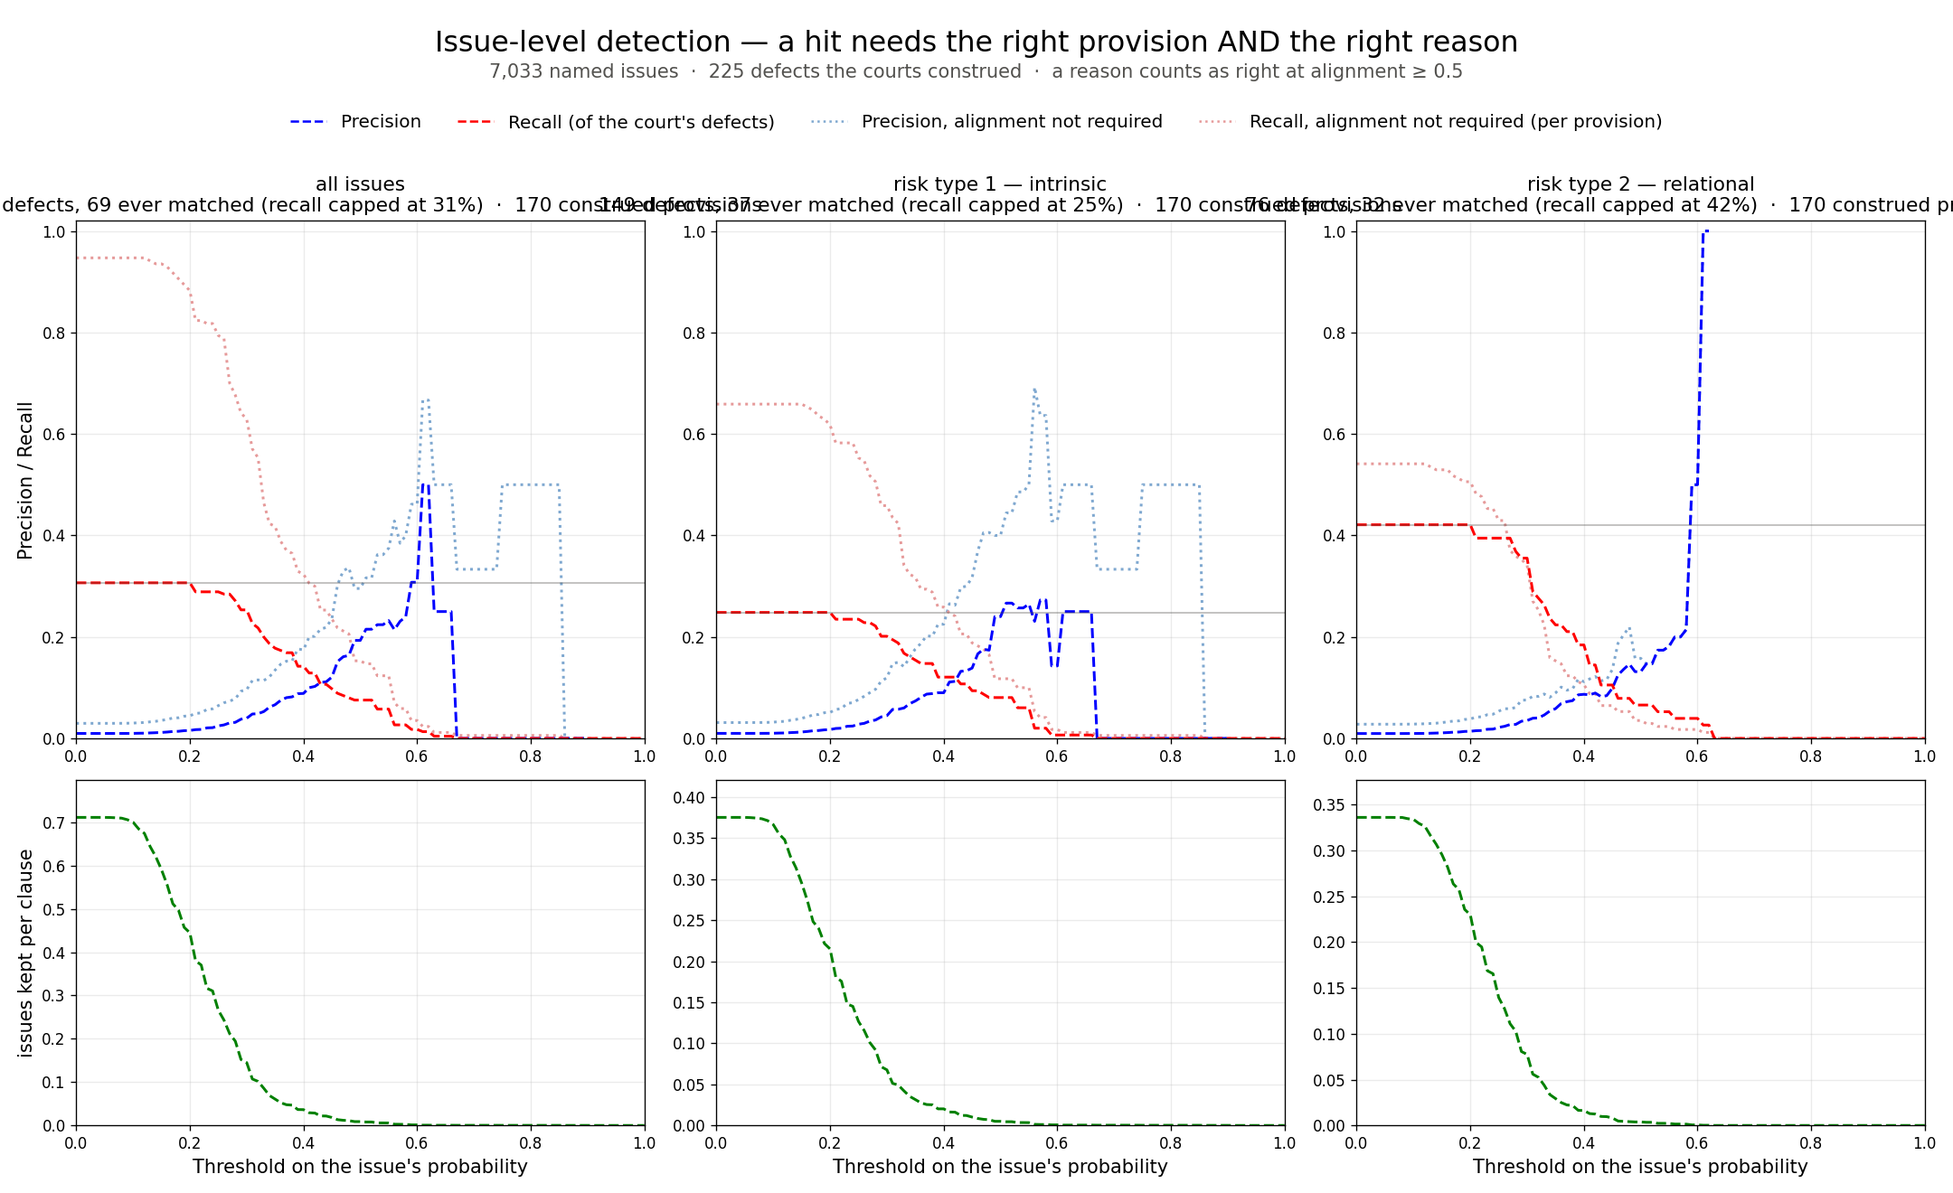
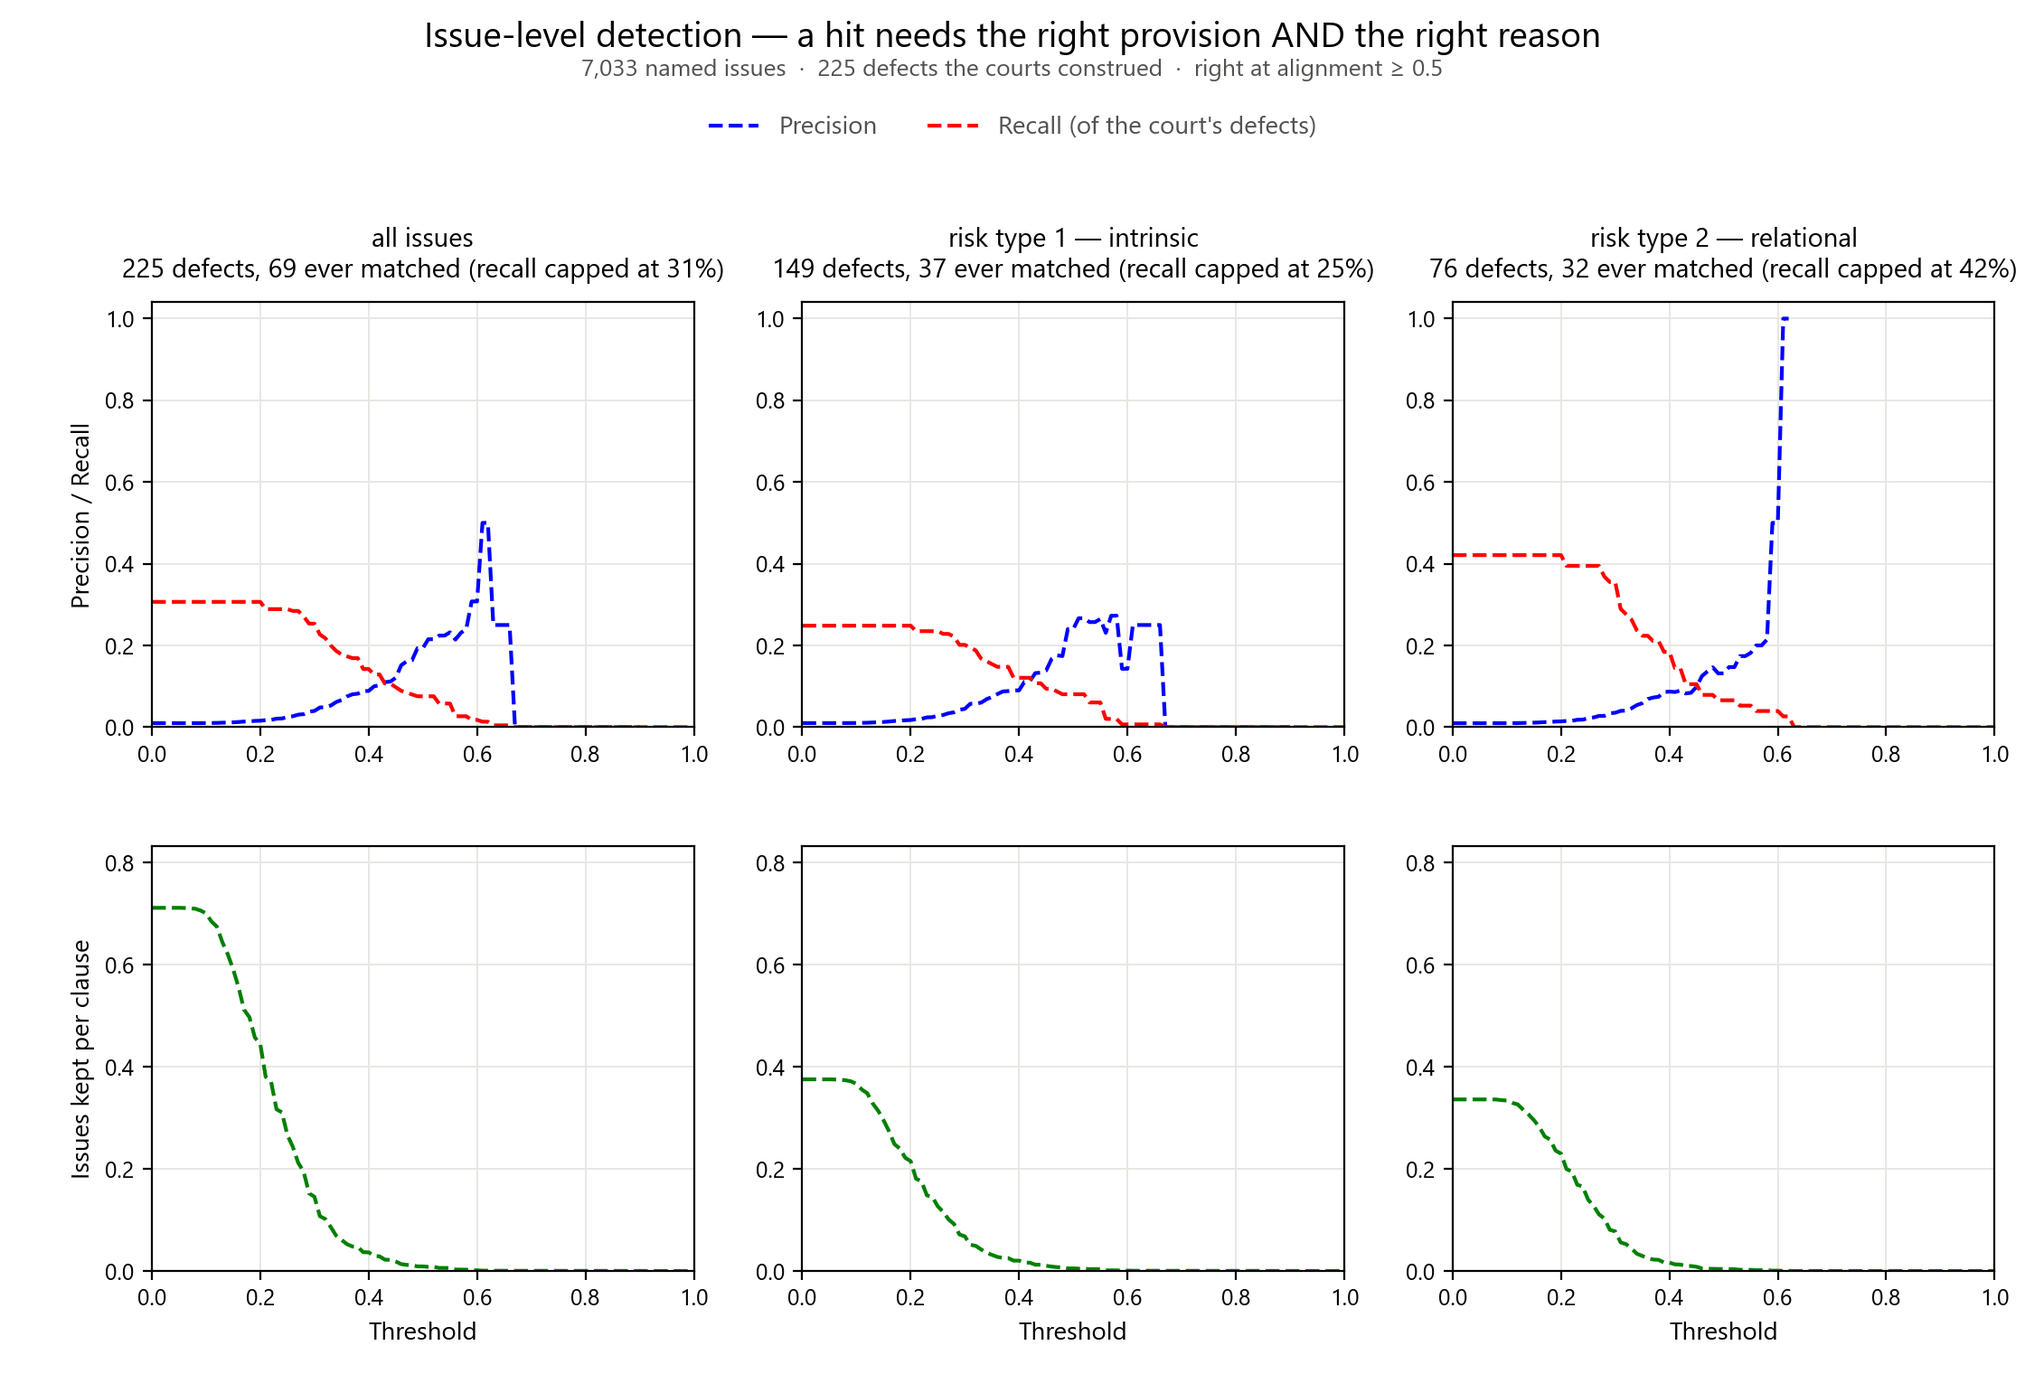
update figures

diff --git a/src/experiments/plot_issue_alignment_thresholds.py b/src/experiments/plot_issue_alignment_thresholds.py
@@ -8,8 +8,8 @@ it correct when both hold:
     actually construed (alignment >= 0.5)
 
 so a provision flagged for the wrong reason is a false positive here even
-though the other figure counts it as a hit. The gap between the two curves is
-the price of demanding the right reason.
+though the risk-detection figure counts it as a hit. The distance between the
+two figures is the price of demanding the right reason.
 
 **Risk type is NOT part of the test.** The alignment judge is shown neither
 side's type, and a candidate is not filtered by it: the dataset's labels come
@@ -17,11 +17,11 @@ from the case's Westlaw key rather than from the passage, so gating on them
 discards matches where both sides name the same defect and classify it
 differently. Type agreement is measured separately, over the matched pairs.
 
-**The two recalls have different denominators, and the figure says so.** Strict
-recall is over the court's own defects: step 2 records each one separately, and
-the judge reports WHICH it matched, so a found defect is counted once. Lenient
-recall drops the alignment test, and without a match there is no way to say
-which defect was reached, so it can only count PROVISIONS the court construed.
+**Recall is over the court's own defects.** Step 2 records each separately and
+the judge reports WHICH one an issue matched, so a defect found twice counts
+once. Dropping the alignment test would leave no way to say which defect an
+issue reached, so that variant is not drawn here — scoring a provision without
+regard to the reason is what the risk-detection figure already does.
 
 **Null-text entries are excluded from the universe.** An entry with `issue:
 null` states a probability without naming a defect, so it can never be right for
@@ -29,7 +29,8 @@ the right reason and scoring it here would only dilute the denominator.
 
 Gold issues the check could never reach — the model named no issue of that type
 on that provision at any probability — cap recall however the threshold is set.
-That ceiling is drawn on each panel.
+Each panel's title says where that ceiling is; the recall curve reaches it at
+threshold 0, so it is not drawn as a line of its own.
 
 Usage:
     python src/experiments/plot_issue_alignment_thresholds.py
@@ -59,9 +60,19 @@ ALIGNED = 0.5            # the alignment score above which a reason is "right"
 C_PRECISION = "blue"
 C_RECALL = "red"
 C_FLAGGED = "green"
-C_LENIENT_P = "#7fa8d0"  # precision without the alignment requirement
-C_LENIENT_R = "#e69a9a"  # recall without it, at (provision, type) granularity
 INK2 = "#52514e"
+
+# The two threshold figures are read as a pair, so their panels have to be the
+# same size on the page. `tight_layout` sizes them from whatever is left after
+# the header, and the headers differ — a two-row legend in one, a one-row legend
+# in the other — which silently made one figure's panels 6% shorter than the
+# other's. The box is therefore fixed here and the header drawn above it, with
+# the same numbers in both scripts. Changing one without the other reintroduces
+# the mismatch. `bbox_inches="tight"` is likewise not used: it crops to the ink,
+# so the saved canvas would again depend on the header.
+PANEL_BOX = dict(left=0.075, right=0.985, bottom=0.075, top=0.78,
+                 wspace=0.20, hspace=0.28)
+Y_TITLE, Y_SUBTITLE, Y_LEGEND = 0.985, 0.945, 0.932
 
 PANELS = [("all issues", (1, 2)),
           ("risk type 1 — intrinsic", (1,)),
@@ -73,11 +84,10 @@ def rows(path):
 
 
 def load():
-    """(named issues, gold issue keys, gold (provision, type) targets).
+    """(named issues, gold issue keys, construed provisions, clauses judged).
 
-    One item per named issue: its probability, its risk type, whether it lands
-    on a construed provision at all, and which of the court's recorded defects
-    the judge matched it to.
+    One item per named issue: its probability, its risk type, and which of the
+    court's recorded defects the judge matched it to, if any.
     """
     align = {r["job_id"]: r for r in rows(ALIGN)}
 
@@ -111,39 +121,31 @@ def load():
             hit = (a and a.get("matched_key")
                    and float(a["alignment"]) >= ALIGNED)
             items.append({
-                "prob": it["prob"], "type": t, "on_target": on_target,
-                "target": (r["contract_id"], r["clause_id"]),
+                "prob": it["prob"], "type": t,
                 "matched": a["matched_key"] if hit else None,
             })
     return items, gold_issues, targets, n_clauses
 
 
-def sweep(items, n_gold, n_targets, n_clauses, thresholds):
-    """(precision, recall, lenient precision, lenient recall, issues/clause).
+def sweep(items, n_gold, n_clauses, thresholds):
+    """(precision, recall, issues per clause).
 
     Recall counts DISTINCT gold issues matched, so two issues that name the same
-    defect are one hit. The lenient pair drops the alignment test: its precision
-    asks only whether an issue landed on a construed provision, and its recall
-    counts distinct provisions reached, the finest granularity available
-    without a match.
+    defect are one hit.
 
     The bottom row is issues kept per clause, not a percentage of the issues
     named: what a reviewer actually carries is the count per provision they
     open, and dividing by the issues the model happened to write hides it.
     """
-    prec, rec, lprec, lrec, flag = [], [], [], [], []
+    prec, rec, flag = [], [], []
     for t in thresholds:
         f = [i for i in items if i["prob"] >= t]
         found = {i["matched"] for i in f if i["matched"]}
-        reached = {i["target"] for i in f if i["on_target"]}
         tp = sum(1 for i in f if i["matched"])
-        lp = sum(1 for i in f if i["on_target"])
         prec.append(tp / len(f) if f else float("nan"))
-        lprec.append(lp / len(f) if f else float("nan"))
         rec.append(len(found) / n_gold if n_gold else float("nan"))
-        lrec.append(len(reached) / n_targets if n_targets else float("nan"))
         flag.append(len(f) / n_clauses if n_clauses else float("nan"))
-    return prec, rec, lprec, lrec, flag
+    return prec, rec, flag
 
 
 def main():
@@ -158,72 +160,76 @@ def main():
     for title, types in PANELS:
         sub = [i for i in items if i["type"] in types]
         n_gold = sum(1 for _k, t in gold_issues if t in types)
-        n_targets = len(set(targets))
         reachable = len({i["matched"] for i in sub if i["matched"]})
-        panels.append((title, n_gold, n_targets, reachable)
-                      + sweep(sub, n_gold, n_targets, n_clauses, thresholds))
+        panels.append((title, n_gold, reachable)
+                      + sweep(sub, n_gold, n_clauses, thresholds))
 
-    fig, axes = plt.subplots(2, 3, figsize=(18, 11),
-                             gridspec_kw={"height_ratios": [3, 2]})
-    fig.suptitle("Issue-level detection — a hit needs the right provision "
-                 "AND the right reason",
-                 fontsize=19, y=0.975)
-    fig.text(0.5, 0.935,
-             f"{len(items):,} named issues  ·  {len(gold_issues)} defects the "
-             f"courts construed  ·  a reason counts as right at "
-             f"alignment ≥ {ALIGNED}",
-             ha="center", fontsize=12.5, color=INK2)
+    # Deliberately the same canvas as plot_risk_detect_thresholds.py: same
+    # figsize, same equal-height rows, same tick sizes. The two figures are read
+    # as a pair — clause level, then issue level — and a panel that changed
+    # shape between them would suggest a difference that is not there. Only the
+    # bottom row's UNIT differs, and it says so on its axis.
+    plt.rcParams.update({
+        "font.family": ["Segoe UI", "DejaVu Sans", "sans-serif"],
+    })
+    fig, axes = plt.subplots(2, 3, figsize=(11.2, 7.6), dpi=200, sharex=True)
 
-    handles = [
-        plt.Line2D([], [], color=C_PRECISION, ls="--", label="Precision"),
-        plt.Line2D([], [], color=C_RECALL, ls="--",
-                   label="Recall (of the court's defects)"),
-        plt.Line2D([], [], color=C_LENIENT_P, ls=":",
-                   label="Precision, alignment not required"),
-        plt.Line2D([], [], color=C_LENIENT_R, ls=":",
-                   label="Recall, alignment not required (per provision)"),
-    ]
-    fig.legend(handles=handles, loc="upper center", bbox_to_anchor=(0.5, 0.918),
-               ncol=4, frameon=False, fontsize=12)
+    # One scale across the three bottom panels, so their heights compare.
+    top_flag = max(max(p[-1]) for p in panels)
+    step = 0.2 if top_flag > 0.6 else 0.1 if top_flag > 0.3 else 0.05
+    hi = step * (int(top_flag / step) + 1)
 
-    for col, (title, n_gold, n_targets, reachable,
-              prec, rec, lprec, lrec, flag) in enumerate(panels):
+    for col, (title, n_gold, reachable, prec, rec, flag) in enumerate(panels):
         top, bot = axes[0][col], axes[1][col]
+        for ax in (top, bot):
+            ax.tick_params(labelsize=9)
+            ax.set_xlim(0, 1)
+            ax.set_xticks([0, 0.2, 0.4, 0.6, 0.8, 1.0])
+            ax.grid(color="#e8e7e3", linewidth=0.7)
+            ax.set_axisbelow(True)
+
+        top.tick_params(labelbottom=True)   # sharex hides these by default
         cap = reachable / n_gold if n_gold else 0
         top.set_title(f"{title}\n{n_gold} defects, {reachable} ever matched "
-                      f"(recall capped at {cap:.0%})  ·  "
-                      f"{n_targets} construed provisions",
-                      fontsize=13)
-        top.plot(thresholds, lprec, ls=":", color=C_LENIENT_P, lw=1.8)
-        top.plot(thresholds, lrec, ls=":", color=C_LENIENT_R, lw=1.8)
-        top.plot(thresholds, prec, ls="--", color=C_PRECISION, lw=1.8)
-        top.plot(thresholds, rec, ls="--", color=C_RECALL, lw=1.8)
-        top.axhline(cap, color=INK2, lw=0.9, ls="-", alpha=0.45)
-        top.set_ylim(0, 1.02)
-        top.set_xlim(0, 1)
-        top.grid(alpha=0.25)
-        if col == 0:
-            top.set_ylabel("Precision / Recall", fontsize=12.5)
+                      f"(recall capped at {cap:.0%})", fontsize=10.5, pad=10)
+        top.plot(thresholds, prec, ls="--", color=C_PRECISION, lw=1.5)
+        top.plot(thresholds, rec, ls="--", color=C_RECALL, lw=1.5)
+        top.set_ylim(0, 1.04)
+        top.set_yticks([0, 0.2, 0.4, 0.6, 0.8, 1.0])
 
-        bot.plot(thresholds, flag, ls="--", color=C_FLAGGED, lw=1.8)
-        bot.set_xlim(0, 1)
-        bot.set_ylim(0, max(0.05, max(flag) * 1.12))
-        bot.grid(alpha=0.25)
-        bot.set_xlabel("Threshold on the issue's probability", fontsize=12.5)
-        if col == 0:
-            bot.set_ylabel("issues kept per clause", fontsize=12.5)
+        bot.plot(thresholds, flag, ls="--", color=C_FLAGGED, lw=1.5)
+        bot.set_ylim(0, hi * 1.04)
+        bot.set_yticks([round(step * i, 2)
+                        for i in range(int(hi / step) + 1)])
+        bot.set_xlabel("Threshold", fontsize=10)
 
-    fig.tight_layout(rect=(0, 0, 1, 0.905))
+    axes[0][0].set_ylabel("Precision / Recall", fontsize=10)
+    axes[1][0].set_ylabel("Issues kept per clause", fontsize=10)
+
+    fig.suptitle("Issue-level detection — a hit needs the right provision "
+                 "AND the right reason", fontsize=14, x=0.5, y=Y_TITLE)
+    fig.text(0.5, Y_SUBTITLE,
+             f"{len(items):,} named issues  ·  {len(gold_issues)} defects the "
+             f"courts construed  ·  right at alignment ≥ {ALIGNED}",
+             ha="center", fontsize=9.5, color=INK2)
+    fig.legend(handles=[
+        plt.Line2D([], [], color=C_PRECISION, ls="--", lw=1.5,
+                   label="Precision"),
+        plt.Line2D([], [], color=C_RECALL, ls="--", lw=1.5,
+                   label="Recall (of the court's defects)"),
+    ], loc="upper center", bbox_to_anchor=(0.5, Y_LEGEND), ncol=2,
+        frameon=False, fontsize=10, labelcolor=INK2)
+
+    fig.subplots_adjust(**PANEL_BOX)
     os.makedirs(os.path.dirname(FIG), exist_ok=True)
-    fig.savefig(FIG, dpi=120)
+    fig.savefig(FIG, facecolor="white")
 
     print(f"{len(items):,} named issues, {len(gold_issues)} gold defects, "
           f"{len(set(targets))} construed provisions, {n_clauses:,} clauses")
     i = thresholds.index(0.5)
-    for title, n_gold, n_targets, reachable, prec, rec, lprec, lrec, flag in panels:
+    for title, n_gold, reachable, prec, rec, flag in panels:
         print(f"  {title:<26} {n_gold:3d} defects ({reachable} matched)   @0.5  "
-              f"P={prec[i]:.3f} R={rec[i]:.3f}   without alignment "
-              f"P={lprec[i]:.3f} R={lrec[i]:.3f}   "
+              f"P={prec[i]:.3f} R={rec[i]:.3f}   "
               f"{flag[i]:.3f} issue/clause")
     print(f"-> {FIG}")
 

diff --git a/src/plot_dataset.py b/src/plot_dataset.py
@@ -1,0 +1,96 @@
+"""The dataset's shape: how many clauses a contract has.
+
+The corpus is heavily right-skewed — the largest contract has 86x the clauses of
+the smallest — and that matters for reading every other figure: any metric
+averaged over clauses is weighted by contract size, so a handful of very long
+instruments decide it.
+
+The axis is logarithmic because a linear one shows a spike against a flat tail
+and nothing else.
+
+Reads only `output/dataset.csv`, so it needs no experiment output.
+
+Usage:
+    python src/plot_dataset.py
+"""
+import collections
+import csv
+import os
+import sys
+
+import numpy as np
+
+import matplotlib
+matplotlib.use("Agg")
+import matplotlib.pyplot as plt  # noqa: E402
+import matplotlib.ticker  # noqa: E402
+
+csv.field_size_limit(min(sys.maxsize, 2**31 - 1))
+
+ROOT = os.path.dirname(os.path.dirname(os.path.abspath(__file__)))
+OUT_DIR = os.path.join(ROOT, "output")
+DATASET = os.path.join(OUT_DIR, "dataset.csv")
+FIG = os.path.join(OUT_DIR, "figures", "clause_count_distribution.png")
+
+INK, INK2, GRID = "#1f1e1c", "#52514e", "#e8e7e3"
+C_MAIN = "#2a78d6"   # one series, one hue
+C_MARK = "#b4553f"   # the median rule
+
+
+def sizes():
+    """Clauses per contract, ascending."""
+    n = collections.Counter(
+        r["contract_id"]
+        for r in csv.DictReader(open(DATASET, newline="", encoding="utf-8")))
+    return np.array(sorted(n.values()))
+
+
+def figure(v):
+    fig, ax = plt.subplots(figsize=(7.4, 4.6), dpi=200)
+
+    ax.hist(v, bins=np.logspace(np.log10(8), np.log10(1024), 19),
+            color=C_MAIN, edgecolor="white", linewidth=1.0)
+    ax.set_xscale("log")
+    ax.set_xticks([10, 25, 50, 100, 200, 400, 800])
+    ax.get_xaxis().set_major_formatter(matplotlib.ticker.ScalarFormatter())
+    ax.axvline(np.median(v), color=C_MARK, lw=1.6, ls="--")
+    ax.annotate(f"median {int(np.median(v))}",
+                xy=(np.median(v), ax.get_ylim()[1] * 0.96),
+                xytext=(-7, 0), textcoords="offset points",
+                ha="right", va="top", color=C_MARK, fontsize=9.5)
+    ax.set_xlabel("Clauses in the contract (log scale)", fontsize=10.5)
+    ax.set_ylabel("Contracts", fontsize=10.5)
+
+    ax.grid(color=GRID, linewidth=0.7)
+    ax.set_axisbelow(True)
+    ax.tick_params(labelsize=9.5, colors=INK2)
+    for s in ax.spines.values():
+        s.set_color(GRID)
+
+    ax.set_title(f"Clause count per contract — {len(v)} contracts, "
+                 f"{v.sum():,} clauses", fontsize=12.5, color=INK, pad=24)
+    ax.text(0.5, 1.035, f"mean {v.mean():.0f}  ·  median {int(np.median(v))}"
+            f"  ·  range {v.min()}–{v.max()}", transform=ax.transAxes,
+            ha="center", fontsize=9.5, color=INK2)
+
+    fig.subplots_adjust(left=0.10, right=0.98, bottom=0.125, top=0.845)
+    fig.savefig(FIG, facecolor="white")
+    plt.close(fig)
+
+
+def main():
+    if not os.path.exists(DATASET):
+        sys.exit(f"{DATASET} does not exist — build the dataset first")
+    plt.rcParams.update({"font.family": ["Segoe UI", "DejaVu Sans",
+                                         "sans-serif"]})
+    v = sizes()
+    os.makedirs(os.path.dirname(FIG), exist_ok=True)
+    figure(v)
+    print(f"{len(v)} contracts, {v.sum():,} clauses   "
+          f"mean {v.mean():.1f}  median {int(np.median(v))}  "
+          f"range {v.min()}–{v.max()}")
+    print(f"-> {FIG}")
+
+
+if __name__ == "__main__":
+    main()

diff --git a/src/experiments/plot_risk_detect_thresholds.py b/src/experiments/plot_risk_detect_thresholds.py
@@ -66,6 +66,18 @@ C_RECALL = "red"
 C_FLAGGED = "green"
 INK2 = "#52514e"
 
+# The two threshold figures are read as a pair, so their panels have to be the
+# same size on the page. `tight_layout` sizes them from whatever is left after
+# the header, and the headers differ — a two-row legend in one, a one-row legend
+# in the other — which silently made one figure's panels 6% shorter than the
+# other's. The box is therefore fixed here and the header drawn above it, with
+# the same numbers in both scripts. Changing one without the other reintroduces
+# the mismatch. `bbox_inches="tight"` is likewise not used: it crops to the ink,
+# so the saved canvas would again depend on the header.
+PANEL_BOX = dict(left=0.075, right=0.985, bottom=0.075, top=0.78,
+                 wspace=0.20, hspace=0.28)
+Y_TITLE, Y_SUBTITLE, Y_LEGEND = 0.985, 0.945, 0.932
+
 FLAG_DEFAULT = 0.5
 
 
@@ -183,10 +195,10 @@ def main():
     axes[1][0].set_ylabel("% of clauses flagged", fontsize=10)
 
     fig.suptitle(f"{run_title} — precision, recall, and flag rate across "
-                 f"risk-flagging thresholds", fontsize=14, x=0.5, y=0.985)
+                 f"risk-flagging thresholds", fontsize=14, x=0.5, y=Y_TITLE)
     # No "Exp 3" here: the experiments were renamed off those indices, and a
     # figure is the last place a stale one should survive.
-    fig.text(0.5, 0.935,
+    fig.text(0.5, Y_SUBTITLE,
              f"{subtitle}  ·  "
              f"{len(rows)} clauses from {n_contracts} contracts  ·  "
              f"the two risk-type panels are one-vs-rest",
@@ -196,13 +208,13 @@ def main():
                    label="Precision"),
         plt.Line2D([], [], color=C_RECALL, linestyle="--", linewidth=1.5,
                    label="Recall"),
-    ], loc="upper center", bbox_to_anchor=(0.5, 0.925), ncol=2, frameon=False,
-        fontsize=10, labelcolor=INK2)
+    ], loc="upper center", bbox_to_anchor=(0.5, Y_LEGEND), ncol=2,
+        frameon=False, fontsize=10, labelcolor=INK2)
 
-    fig.tight_layout(rect=(0, 0, 1, 0.925))
+    fig.subplots_adjust(**PANEL_BOX)
     os.makedirs(FIG_DIR, exist_ok=True)
     out = os.path.join(FIG_DIR, fig_name)
-    fig.savefig(out, facecolor="white", bbox_inches="tight")
+    fig.savefig(out, facecolor="white")
     print(f"-> {out}")
 
 
